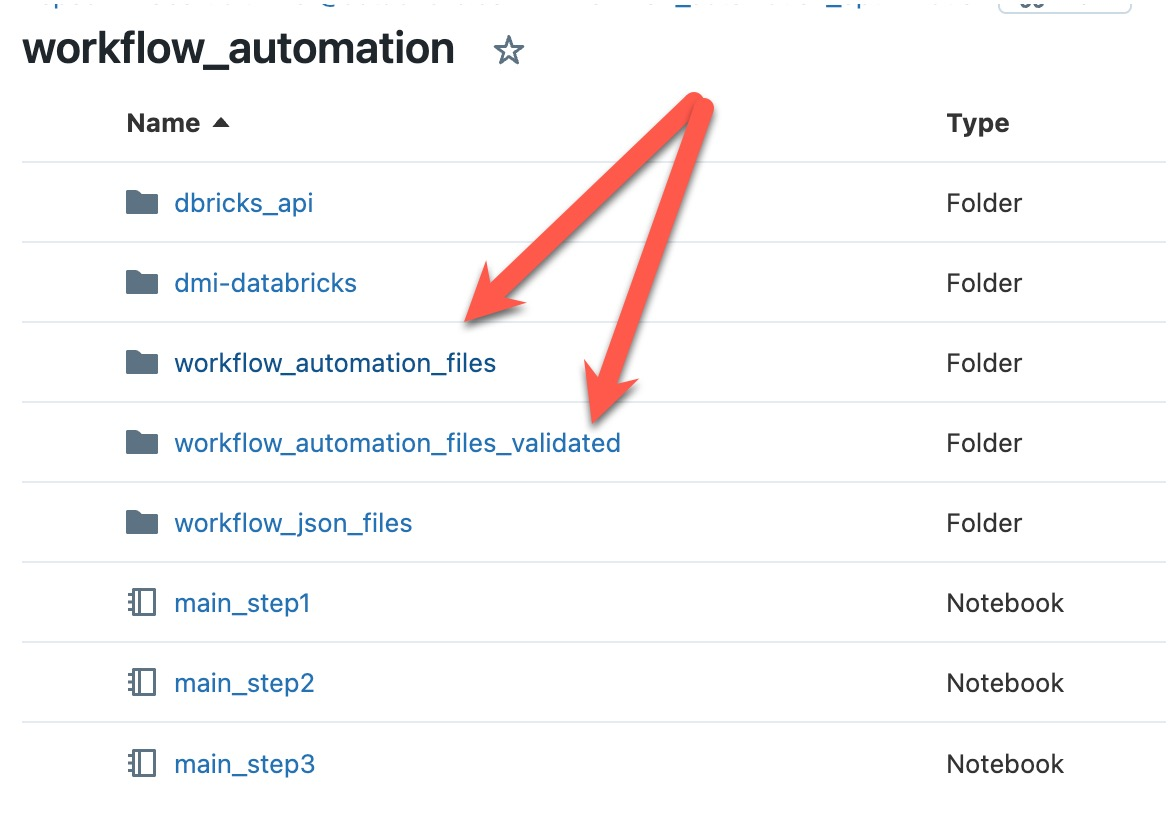
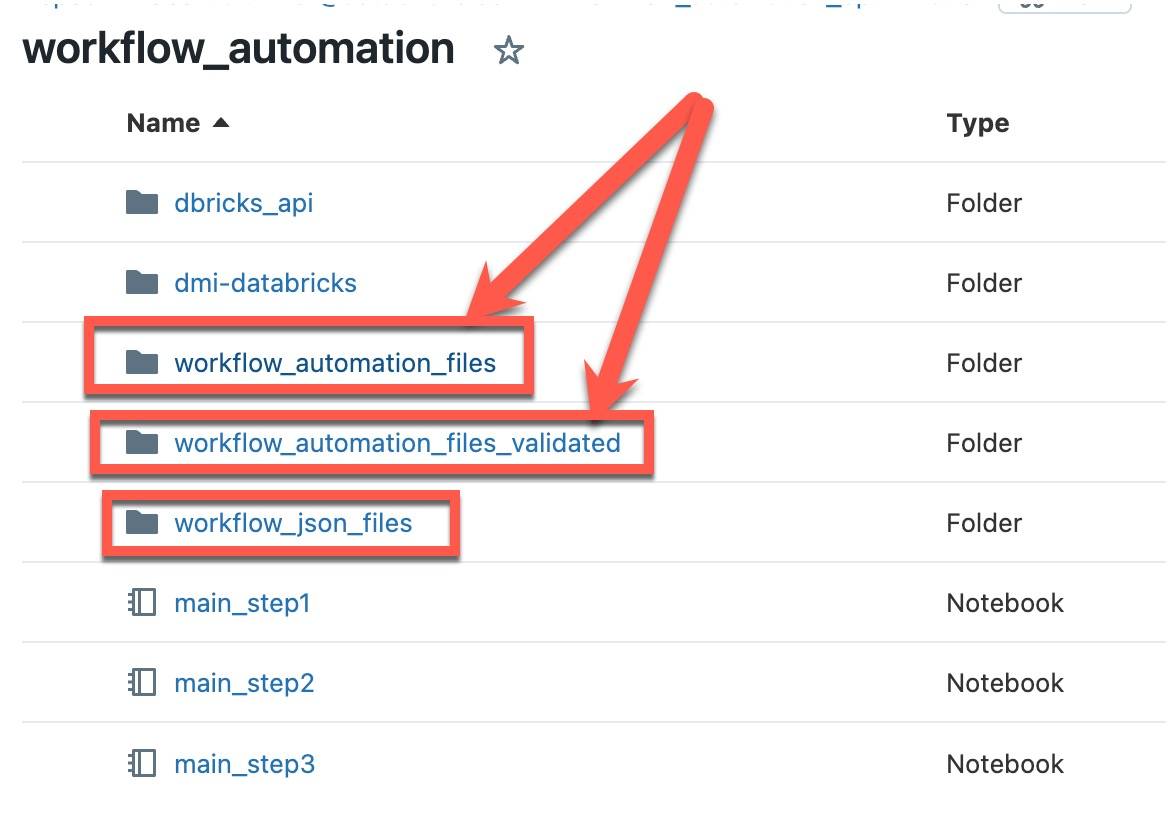
change

Changed region(s): [[0.0615, 0.365, 0.5846, 0.6995]]

diff --git a/README.md b/README.md
@@ -28,7 +28,7 @@ The Databricks Workflow Creation Tool has the following features:
 ![excel_template_loc.jpg](/readme_images/excel_template_loc.jpg)
 
 - The Excel workflow template below needs to be modified for the creation of any new Databricks workflow.
-- ***IMPORTANT***: Please name the Excel sheet 'API'
+- ***IMPORTANT***: Please name the Excel sheet 'API'.  Also the 'name' of the Excel workbook will be the same name as the workflow created in Databricks.
 
 ![excel_template_mod1.jpg](/readme_images/excel_template_mod1.jpg)
 
@@ -78,9 +78,16 @@ The Databricks Workflow Creation Tool has the following features:
 
 - This is how the 'parameter.txt' files are using in 'composite' Informatica workflows (WF) running in Databricks:
 - Start WF1 --> WF1 Finishes --> WF1 Creates param1.txt in DBFS --> Start WF2 if 'param1.txt' exists in DBFS or Wait --> WF2 Finishes --> WF2 Creates param2.txt in DBFS --> More WFs continue....
+
 <br><br>
 
 - The 'main_step3' notebook is simply used for cleanup purposes to move the Excel workflow template, and clean up files.
-- The Excel workflow template will be moved from the folder 'workflow_automation_files' into the folder 'workflow_automation_files_validated'
+- The Excel workflow template will be moved from the folder 'workflow_automation_files' into the folder 'workflow_automation_files_validated'.
 
 ![added_main_functionality2.jpg](/readme_images/added_main_functionality2.jpg)
+
+<br><br>
+
+One last note is after the workflow is created in Databricks the workflow json configuration will be stored in the 'workflow_json_files' folder.
+
+![added_main_functionality3.jpg](/readme_images/added_main_functionality3.jpg)
